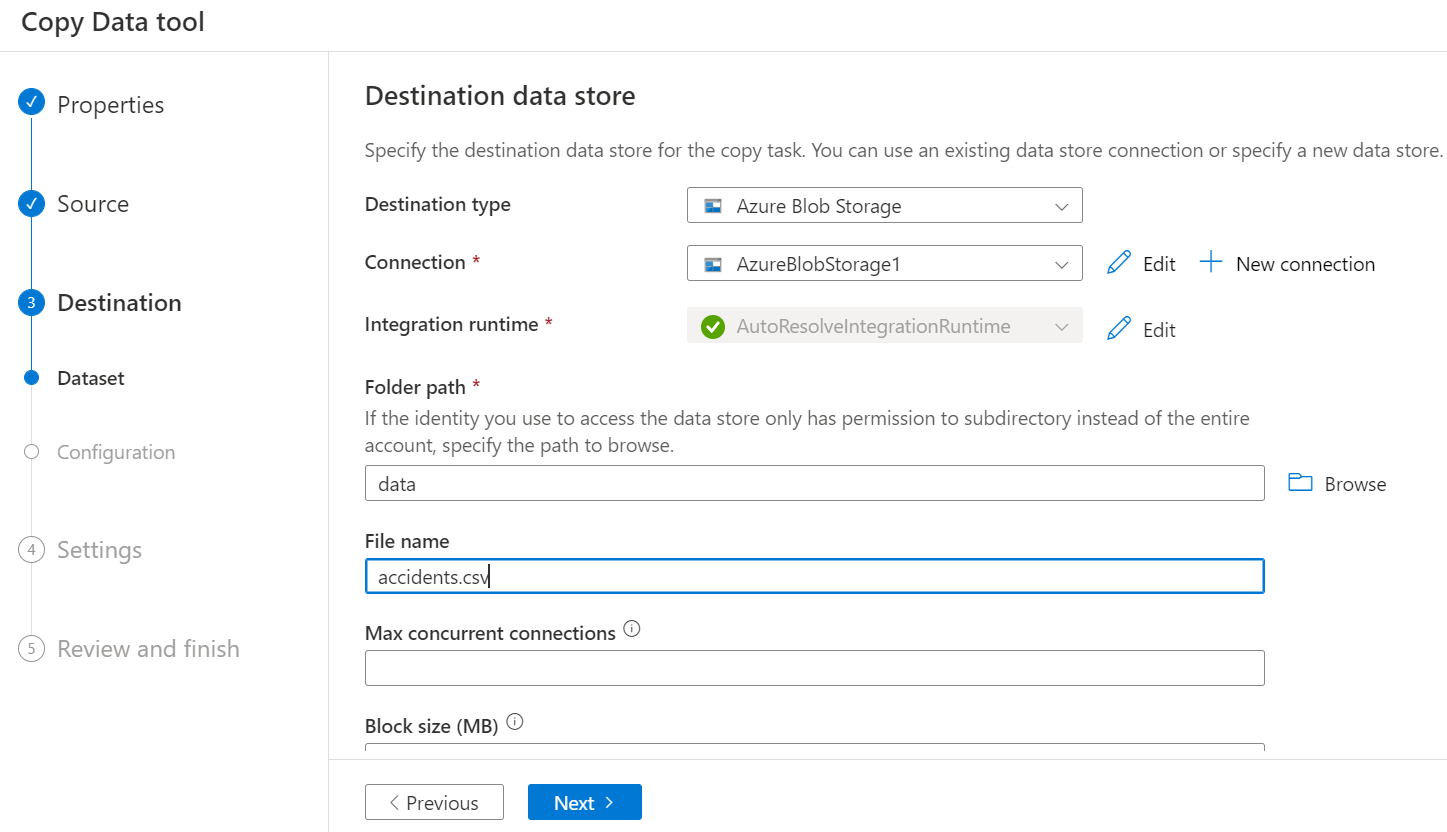
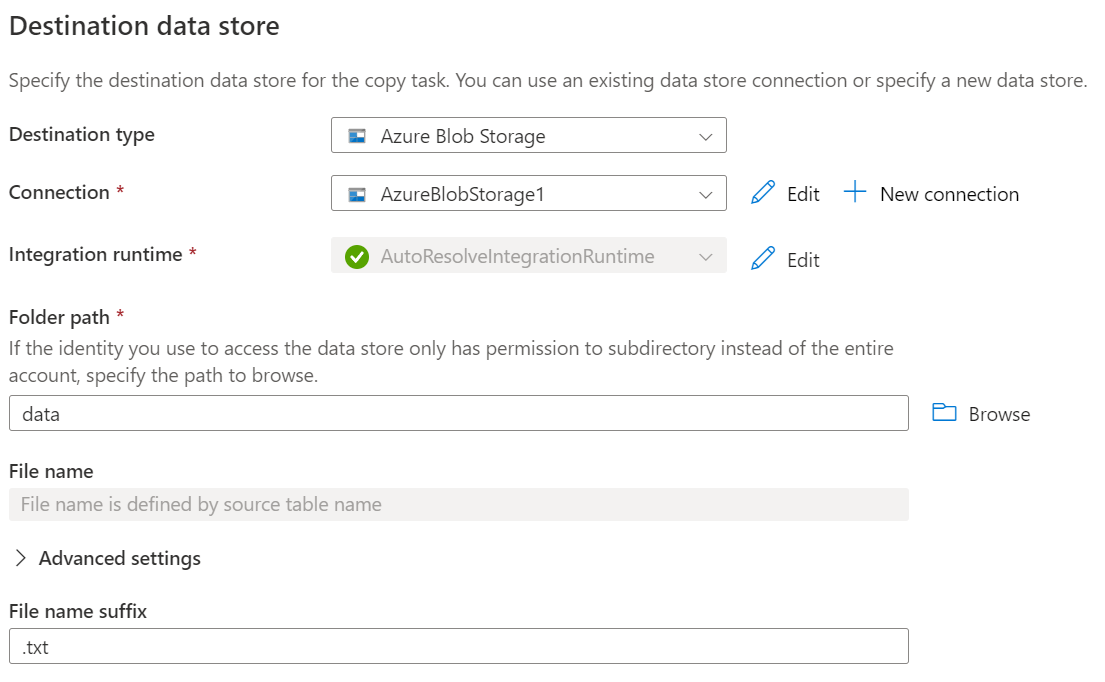
blob storage linked service

diff --git a/README.md b/README.md
@@ -75,11 +75,12 @@ In your Azure Synapse workspace, we will use the ingest wizard to create a one-t
 
 3. Create an **Azure Blob storage** linked service
 <img src="/pictures/linked-service-blob.png" title="linked services blob storage"  width="300">
+<img src="/pictures/linked-service-blob-config.png" title="linked services blob storage config"  width="300">
 
-4. in order to create a **Linked Service** Go to the **Home/Ingest** section and select **Built-in copy task** and **Run once now**.
+4. in order to ingesti data into **Blob Storage**,  Go to the **Home/Ingest** section and select **Built-in copy task** and **Run once now**.
 <img src="/pictures/home-ingest.png" title="ingest"  width="700">
 
-5. Then select **Azure Database for PostgreSQL** as a source and choose the *accident* table.
+5. Then select **Azure Database for PostgreSQL** as a source and choose all the relevant tables.
 <img src="/pictures/postgres-source.png" title="postgres source"  width="700">
 
 6. Then add a destination link to **Azure Blob Storage** as a source
